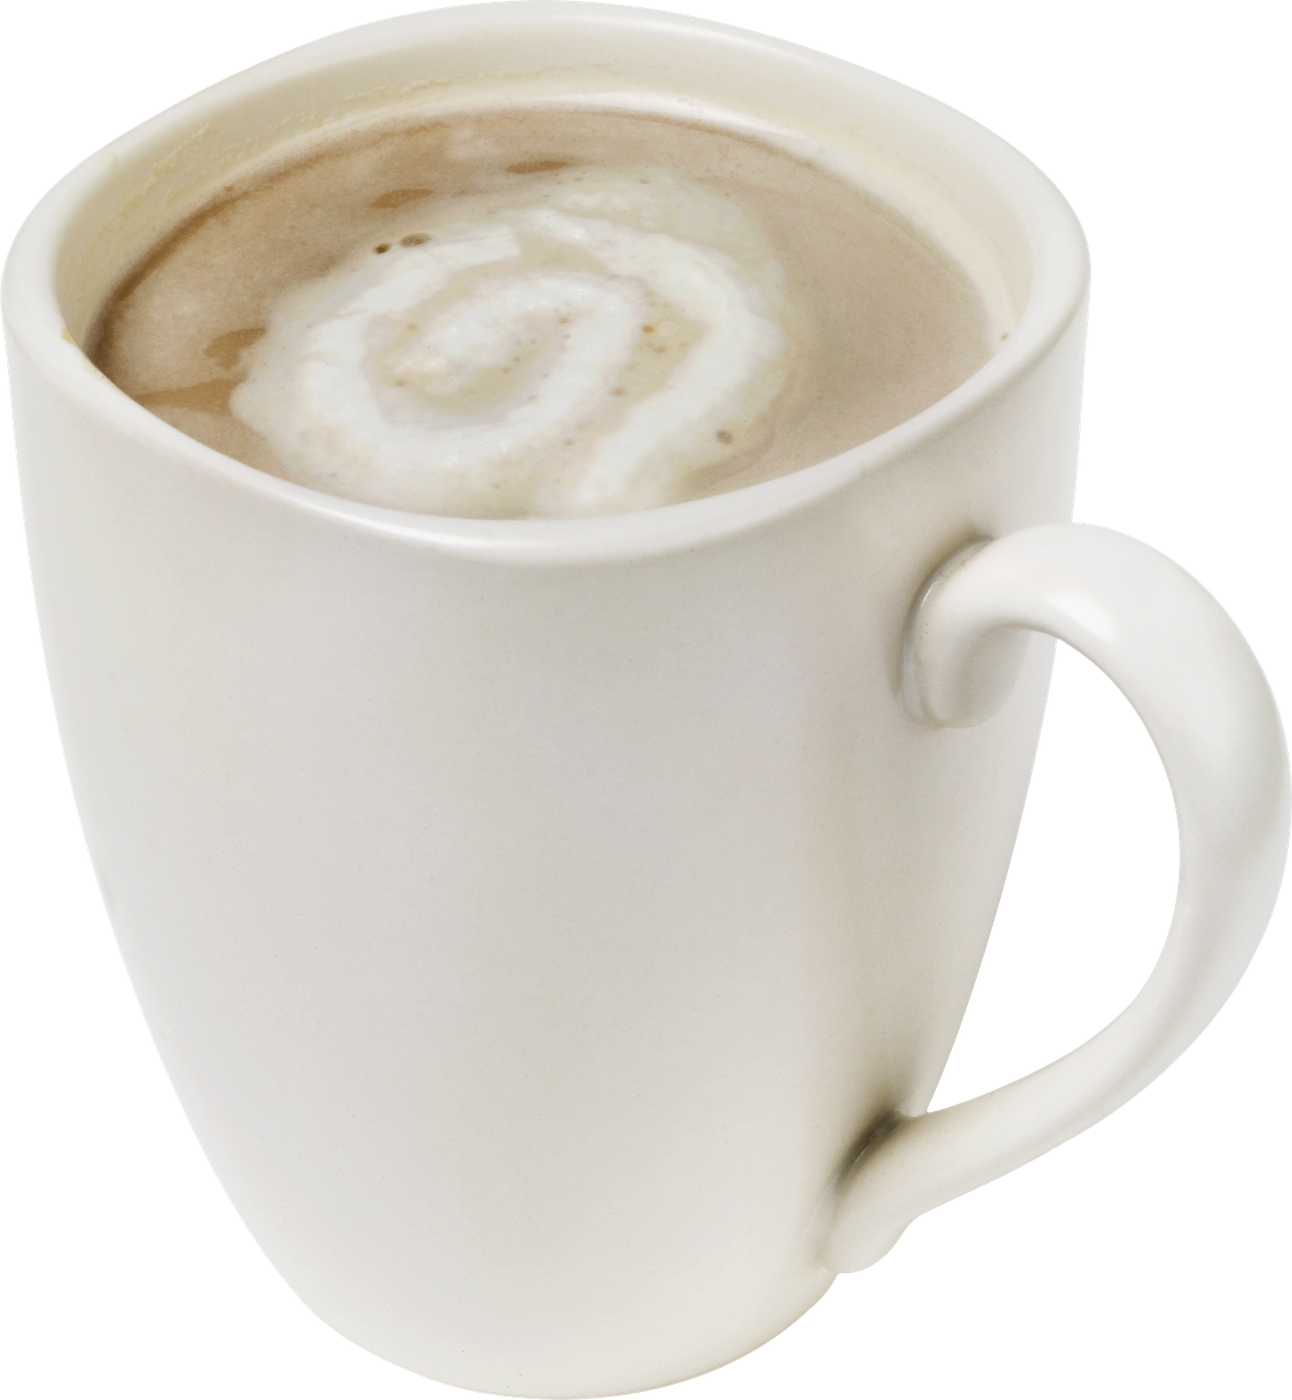
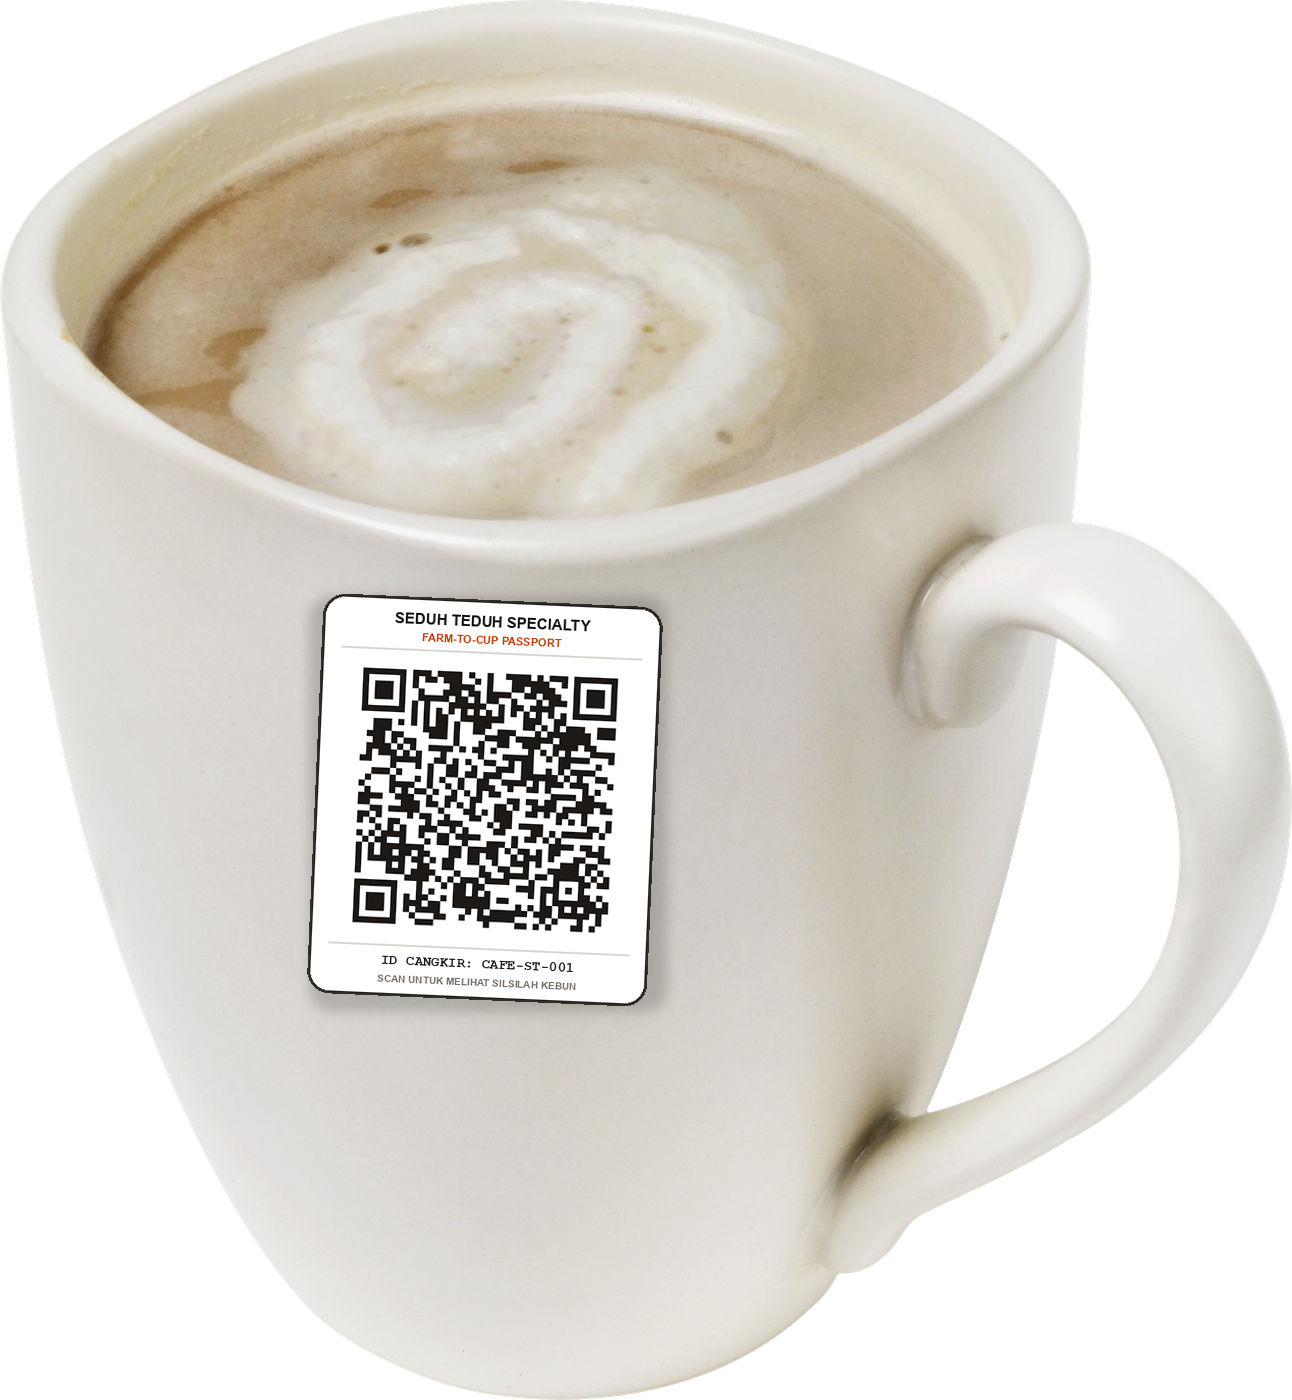
feat(qr): add scannable cupId QR passport to coffee cup linking to CAFE-ST-001

Changed region(s): [[0.2167, 0.3993, 0.5263, 0.7371]]

diff --git a/src/components/landing/ServicesShowcaseSection.tsx b/src/components/landing/ServicesShowcaseSection.tsx
@@ -20,7 +20,8 @@ import {
   Globe2,
   Thermometer,
   Cpu,
-  BadgeCheck
+  BadgeCheck,
+  ExternalLink
 } from 'lucide-react';
 
 // Custom Intersection Observer Hook for on-scroll reveal
@@ -573,12 +574,37 @@ export const ServicesShowcaseSection: React.FC = () => {
               </div>
 
               {/* Image Frame */}
-              <div className="relative w-full max-w-md aspect-square flex items-center justify-center p-4 z-10">
+              <div className="relative w-full max-w-md aspect-square flex items-center justify-center p-4 z-10 group">
                 <img
-                  src="/images/coffee_cup.png"
-                  alt="Cangkir Kopi Keramik dengan Latte Art Specialty"
-                  className="w-full h-auto max-h-[340px] object-contain drop-shadow-[0_20px_45px_rgba(244,63,94,0.30)] animate-cct-float-slow"
+                  src="/images/coffee_cup_passport.png"
+                  alt="Cangkir Kopi Keramik dengan QR Code Farm-to-Cup (CAFE-ST-001)"
+                  className="w-full h-auto max-h-[340px] object-contain drop-shadow-[0_20px_45px_rgba(244,63,94,0.30)] animate-cct-float-slow transition-transform group-hover:scale-105 duration-300"
                 />
+              </div>
+
+              {/* Direct interactive scan trigger & sample link badge */}
+              <div className="mt-2 w-full max-w-md bg-stone-900/90 rounded-2xl p-3 border border-rose-500/30 flex items-center justify-between gap-3 shadow-lg z-20">
+                <div className="flex items-center gap-2.5 overflow-hidden">
+                  <div className="w-8 h-8 rounded-lg bg-rose-500/20 text-rose-400 flex items-center justify-center shrink-0">
+                    <QrCode className="w-4 h-4" />
+                  </div>
+                  <div className="text-left truncate">
+                    <span className="text-[10px] text-stone-400 uppercase font-bold block">Pindai QR Cangkir (Format URL):</span>
+                    <span className="text-xs font-mono font-bold text-rose-300 truncate block">
+                      /?cupId=CAFE-ST-001
+                    </span>
+                  </div>
+                </div>
+                <a
+                  href="/?cupId=CAFE-ST-001"
+                  target="_blank"
+                  rel="noopener noreferrer"
+                  className="px-3 py-1.5 rounded-lg bg-rose-600 hover:bg-rose-500 text-white font-bold text-xs flex items-center gap-1.5 shrink-0 transition-all shadow-xs hover:shadow-rose-500/25 cursor-pointer"
+                  title="Uji coba buka riwayat silsilah cangkir kopi CAFE-ST-001"
+                >
+                  <span>Buka Silsilah Cangkir</span>
+                  <ExternalLink className="w-3.5 h-3.5" />
+                </a>
               </div>
 
               {/* Metadata Chip */}

diff --git a/src/components/PublicLotScanView.tsx b/src/components/PublicLotScanView.tsx
@@ -76,9 +76,11 @@ export const PublicLotScanView: React.FC<PublicLotScanViewProps> = ({
       (c?.sourceRoastedBeanId && safeLotId && c.sourceRoastedBeanId.toLowerCase() === safeLotId.toLowerCase())
   );
 
-  // 1b. Check if the scanned ID is a Roasted bean lot (from Roastery ERP)
+  // 1b. Check if the scanned ID is a Roasted bean lot (from Roastery ERP) or linked from Cafe item
   const matchedRoastedLot = roastedLots.find(
-    (r) => r?.id && safeLotId && r.id.toLowerCase() === safeLotId.toLowerCase()
+    (r) =>
+      (r?.id && safeLotId && r.id.toLowerCase() === safeLotId.toLowerCase()) ||
+      (cafeItem?.sourceRoastedBeanId && r?.id && r.id.toLowerCase() === cafeItem.sourceRoastedBeanId.toLowerCase())
   );
 
   // 2. Check if the scanned ID is a warehouse lot
@@ -237,18 +239,16 @@ export const PublicLotScanView: React.FC<PublicLotScanViewProps> = ({
   const matchedFarm =
     coffeeFarms?.find(
       (f) =>
-        (currentFarmerLot?.farmId && f.id === currentFarmerLot.farmId) ||
-        (currentFarmerLot?.farmerId && f.farmerId === currentFarmerLot.farmerId) ||
         (farmerLot?.farmId && f.id === farmerLot.farmId) ||
         (farmerLot?.farmerId && f.farmerId === farmerLot.farmerId) ||
+        (currentFarmerLot?.farmId && f.id === currentFarmerLot.farmId) ||
+        (currentFarmerLot?.farmerId && f.farmerId === currentFarmerLot.farmerId) ||
+        (currentCafeItem?.lineage?.farmLocation?.toLowerCase().includes('kintamani') && f.location?.toLowerCase().includes('kintamani')) ||
+        (currentCafeItem?.lineage?.farmLocation?.toLowerCase().includes('bangli') && f.location?.toLowerCase().includes('bangli')) ||
         (currentCafeItem?.lineage?.farmerName &&
-          f.farmerName
-            .toLowerCase()
-            .includes(currentCafeItem.lineage.farmerName.toLowerCase().split(' ')[0])) ||
+          (currentCafeItem.lineage.farmerName.toLowerCase().includes('adiarta') && f.farmerName.toLowerCase().includes('adiarta'))) ||
         (currentWarehouseLot?.sourceFarmerName &&
-          f.farmerName
-            .toLowerCase()
-            .includes(currentWarehouseLot.sourceFarmerName.toLowerCase().split(' ')[0]))
+          (currentWarehouseLot.sourceFarmerName.toLowerCase().includes('adiarta') && f.farmerName.toLowerCase().includes('adiarta')))
     ) || coffeeFarms?.[0];
 
   const snapshot = matchedFarm?.ctCertificationSnapshot;
